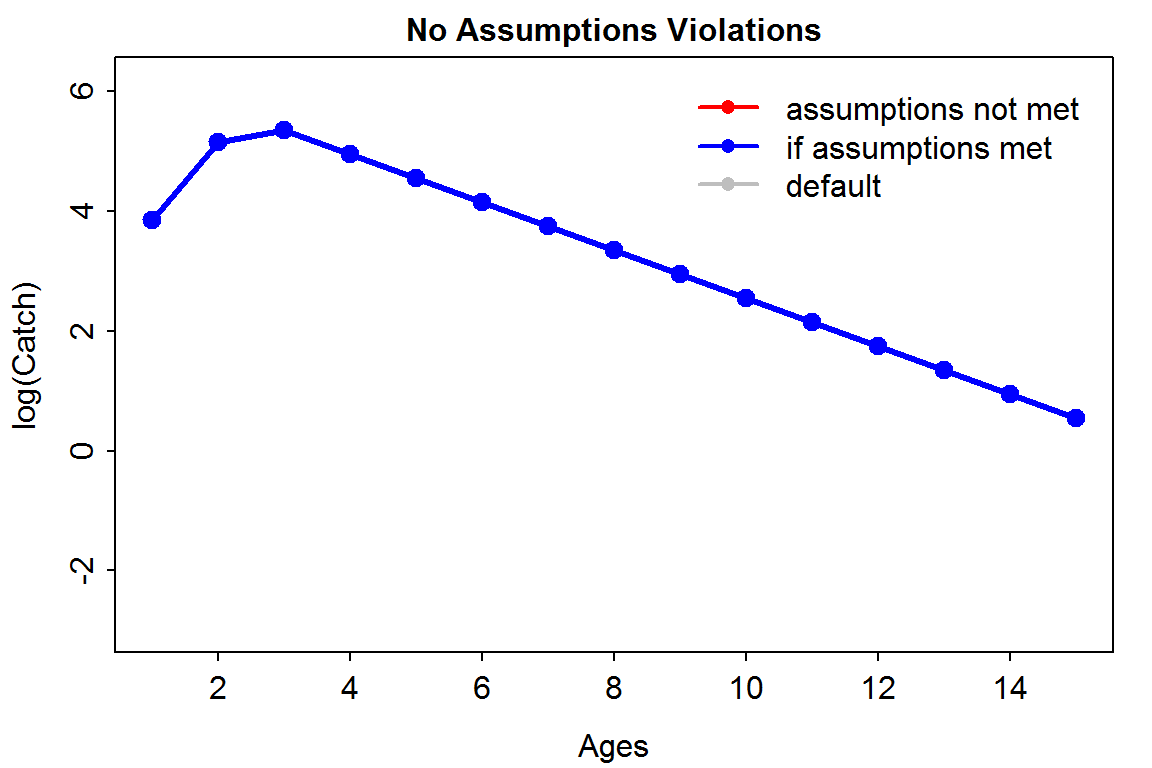
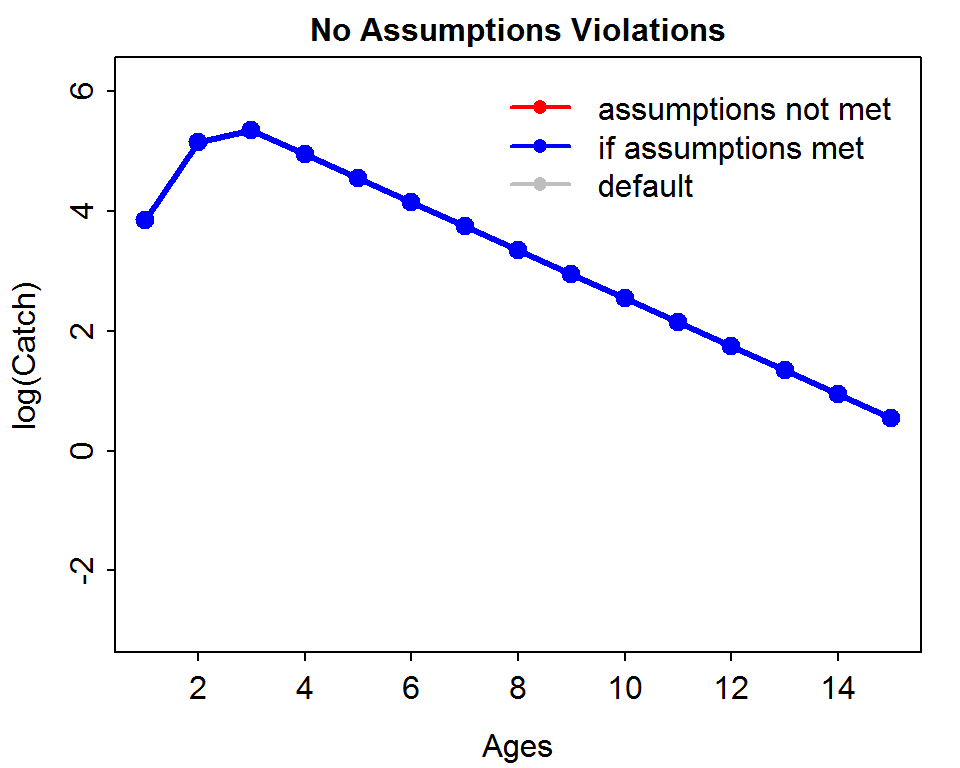
again

diff --git a/modules/Mortality/CE1.html b/modules/Mortality/CE1.html
@@ -34,7 +34,7 @@ css: /css/modules.css
 </ul>
 <p>After calling the function, a plot will appear with three lines that connect points of log catch at age data. Three lines may not be apparent as they may be plotted on top of each other. The gray line is the catch curve at the initial or default values of the simulation (<span class="math">\(Z=0.4\)</span> and <span class="math">\(N_{0}\)</span>=700 with no assumption violations). This line is provided simply as a reference. The red line is the catch curve for the current values of <span class="math">\(Z\)</span> and <span class="math">\(N_{0}\)</span> selected by the user (see below) but ignoring any assumption violations modeled by the user. Finally, the blue line is the catch curve created by all choices made by the user, including changes to <span class="math">\(Z\)</span> and <span class="math">\(N_{0}\)</span> and any values that simulate assumption violations. The blue line is plotted after (or on top) of the red line which is after the gray line.</p>
 <pre class="r"><code>&gt; catchCurveSim()</code></pre>
-<p><img src="CE1_files/figure-html/unnamed-chunk-3-1.png" title="" alt="" width="576" /></p>
+<p><img src="CE1_files/figure-html/unnamed-chunk-3-1.png" title="" alt="" width="480" /></p>
 <p>In RStudio, this plot will have a gear icon in the upper-left corner that will open a dialog box that allows you to change the following items in the simulation.</p>
 <ul>
 <li><code>Z mean</code> - the mean <span class="math">\(Z\)</span> to use in the simulations. If <code>Z CV</code> (see below) is set to 0, then this is the exact <span class="math">\(Z\)</span> used in the simulations.</li>
